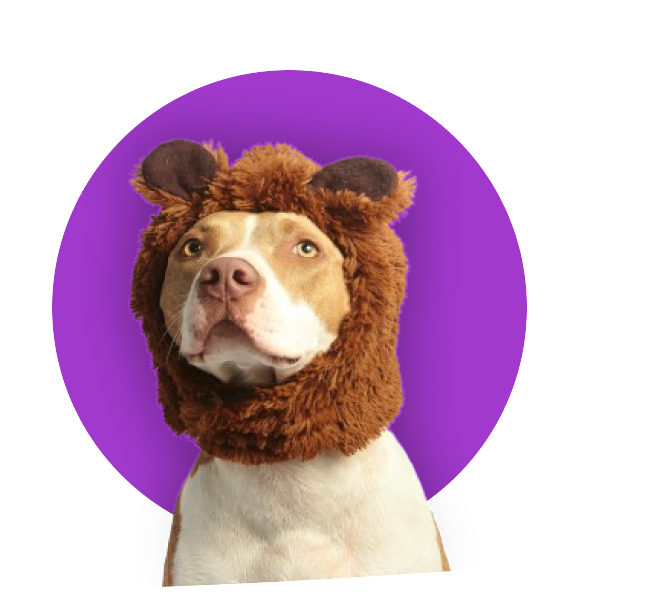
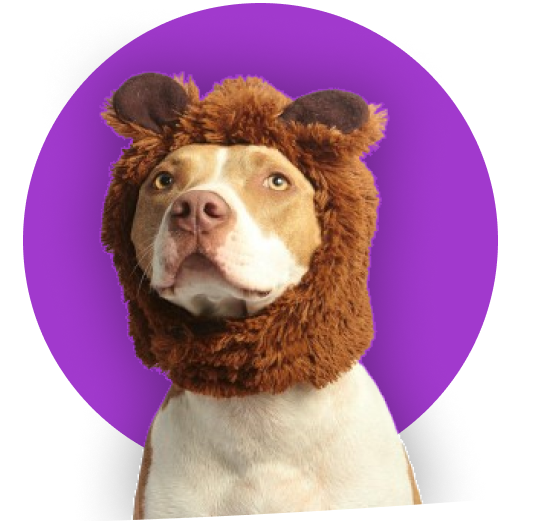
responsive de los slides del carrusel

diff --git a/front/src/components/UI/Carousel/Carousel.tsx b/front/src/components/UI/Carousel/Carousel.tsx
@@ -4,100 +4,97 @@ import { Autoplay } from "swiper/modules";
 // Import Swiper styles
 import "swiper/css";
 import "swiper/css/autoplay";
-//import "swiper/modules/autoplay.scss";
-//import "./styles.css";
+
+interface CarouselData {
+  title: string;
+  description: string;
+  textbutton: string;
+  image: { url: string; alt: string };
+}
+
+const listCarouselData: CarouselData[] = [
+  {
+    title: " ¡ Adopta !",
+    description: `Cuando decides adoptar, estás haciendo una diferencia doblemente
+                significativa. No solo le das una nueva vida llena de amor y
+                cuidados al animal que llevas a tu hogar, sino que también abres
+                un espacio para que otro animal en situación de calle pueda
+                encontrar refugio en nuestro Centro de Adopción. Tu adopción
+                salva a dos vidas: la del animal que acoges y la del que podrá
+                ocupar su lugar en nuestro refugio. Únete a este ciclo de
+                esperanza y salvación.`,
+    textbutton: "Ver refugios",
+    image: {
+      url: "/images/background-hero-carousel-slide-1-recortado.png",
+      alt: "hero-slide-1",
+    },
+  },
+  {
+    title: " ¡ Adopta !",
+    description: `Cuando decides adoptar, estás haciendo una diferencia doblemente
+                significativa. No solo le das una nueva vida llena de amor y
+                cuidados al animal que llevas a tu hogar, sino que también abres
+                un espacio para que otro animal en situación de calle pueda
+                encontrar refugio en nuestro Centro de Adopción. Tu adopción
+                salva a dos vidas: la del animal que acoges y la del que podrá
+                ocupar su lugar en nuestro refugio. Únete a este ciclo de
+                esperanza y salvación.`,
+    textbutton: "Ver refugios",
+    image: {
+      url: "/images/background-hero-carousel-slide-1-recortado.png",
+      alt: "hero-slide-1",
+    },
+  },
+  {
+    title: " ¡ Adopta !",
+    description: `Cuando decides adoptar, estás haciendo una diferencia doblemente
+                significativa. No solo le das una nueva vida llena de amor y
+                cuidados al animal que llevas a tu hogar, sino que también abres
+                un espacio para que otro animal en situación de calle pueda
+                encontrar refugio en nuestro Centro de Adopción. Tu adopción
+                salva a dos vidas: la del animal que acoges y la del que podrá
+                ocupar su lugar en nuestro refugio. Únete a este ciclo de
+                esperanza y salvación.`,
+    textbutton: "Ver refugios",
+    image: {
+      url: "/images/background-hero-carousel-slide-1-recortado.png",
+      alt: "hero-slide-1",
+    },
+  },
+];
 
 export default function Carousel() {
   return (
-    <div className="h-[595px] w-full">
-      <Swiper className="h-full" modules={[Autoplay]} autoplay={{delay: 3000}}>
-        <SwiperSlide className="">
-          <article className="flex items-center justify-around gap-5 w-full h-full bg-[url('/images/background-hero-carousel.png')] bg-bottom bg-no-repeat bg-cover overflow-hidden">
-            <div className="max-w-[584px] w-full fled flex-col">
-              <h1 className="text-6xl font-semibold text-primary pb-5">
-                ¡ Adopta !
-              </h1>
-              <p className=" text-white pb-5 text-lg font-normal">
-                Cuando decides adoptar, estás haciendo una diferencia doblemente
-                significativa. No solo le das una nueva vida llena de amor y
-                cuidados al animal que llevas a tu hogar, sino que también abres
-                un espacio para que otro animal en situación de calle pueda
-                encontrar refugio en nuestro Centro de Adopción. Tu adopción
-                salva a dos vidas: la del animal que acoges y la del que podrá
-                ocupar su lugar en nuestro refugio. Únete a este ciclo de
-                esperanza y salvación.
-              </p>
-              <button className="bg-primary py-3 px-4 rounded-full font-medium text-lg text-white">
-                Ver refugios
-              </button>
-            </div>
-            <div className="max-w-[660px] w-full h-fit abolute top-0 left-0">
-              <img
-                src="/images/background-hero-carousel-slide-1-recortado.png"
-                className="w-full h-full"
-                alt="hero-slide-1"
-              />
-            </div>
-          </article>
-        </SwiperSlide>
-        <SwiperSlide>
-          <article className="flex items-center justify-around w-full h-full bg-[url('/images/background-hero-carousel.png')] bg-bottom bg-no-repeat bg-cover overflow-hidden">
-            <div className="max-w-[584px] w-full fled flex-col">
-              <h1 className="text-6xl font-semibold text-primary pb-5">
-                ¡ Adopta !
-              </h1>
-              <p className=" text-white pb-5 text-xl font-normal">
-                Cuando decides adoptar, estás haciendo una diferencia doblemente
-                significativa. No solo le das una nueva vida llena de amor y
-                cuidados al animal que llevas a tu hogar, sino que también abres
-                un espacio para que otro animal en situación de calle pueda
-                encontrar refugio en nuestro Centro de Adopción. Tu adopción
-                salva a dos vidas: la del animal que acoges y la del que podrá
-                ocupar su lugar en nuestro refugio. Únete a este ciclo de
-                esperanza y salvación.
-              </p>
-              <button className="bg-primary py-3 px-4 rounded-full font-medium text-lg text-white">
-                Ver refugios
-              </button>
-            </div>
-            <div className="max-w-[660px] w-full h-fit abolute top-0 left-0">
-              <img
-                src="/images/background-hero-carousel-slide-1-recortado.png"
-                className="w-full h-full"
-                alt="hero-slide-1"
-              />
-            </div>
-          </article>
-        </SwiperSlide>
-        <SwiperSlide>
-          <article className="flex items-center justify-around w-full h-full bg-[url('/images/background-hero-carousel.png')] bg-bottom bg-no-repeat bg-cover overflow-hidden">
-            <div className="max-w-[584px] w-full fled flex-col">
-              <h1 className="text-6xl font-semibold text-primary pb-5">
-                ¡ Adopta !
-              </h1>
-              <p className=" text-white pb-5 text-xl font-normal">
-                Cuando decides adoptar, estás haciendo una diferencia doblemente
-                significativa. No solo le das una nueva vida llena de amor y
-                cuidados al animal que llevas a tu hogar, sino que también abres
-                un espacio para que otro animal en situación de calle pueda
-                encontrar refugio en nuestro Centro de Adopción. Tu adopción
-                salva a dos vidas: la del animal que acoges y la del que podrá
-                ocupar su lugar en nuestro refugio. Únete a este ciclo de
-                esperanza y salvación.
-              </p>
-              <button className="bg-primary py-3 px-4 rounded-full font-medium text-lg text-white">
-                Ver refugios
-              </button>
-            </div>
-            <div className="max-w-[660px] w-full h-fit abolute top-0 left-0">
-              <img
-                src="/images/background-hero-carousel-slide-1-recortado.png"
-                className="w-full h-full"
-                alt="hero-slide-1"
-              />
-            </div>
-          </article>
-        </SwiperSlide>
+    <div className=" h-fit w-full">
+      <Swiper
+        className="h-full"
+        modules={[Autoplay]}
+        autoplay={{ delay: 3000 }}
+      >
+        {listCarouselData.map((item, index) => (
+          <SwiperSlide key={index} className="">
+            <article className="flex items-center justify-around gap-x-4 w-full h-full bg-[url('/images/background-hero-carousel.png')] bg-bottom bg-no-repeat bg-cover pt-24 pb-2">
+              <div className="max-w-[584px] w-full fled flex-col border">
+                <h1 className="text-6xl font-semibold text-primary pb-5">
+                  {item.title}
+                </h1>
+                <p className=" text-white pb-5 text-xl font-normal">
+                  {item.description}
+                </p>
+                <button className="bg-primary py-3 px-4 rounded-full font-medium text-lg text-white">
+                  {item.textbutton}
+                </button>
+              </div>
+              <div className="max-w-[530px] w-full h-fit">
+                <img
+                  src={item.image.url}
+                  className="w-full h-full bg-cover"
+                  alt={item.image.alt}
+                />
+              </div>
+            </article>
+          </SwiperSlide>
+        ))}
       </Swiper>
     </div>
   );

diff --git a/front/src/app/(page)/report/page.tsx b/front/src/app/(page)/report/page.tsx
@@ -112,7 +112,7 @@ const ReportPage: React.FC = () => {
             location={report.location}
             animalType={report.animalType}
             imageUrl={report.imageUrl}
-            images={""}
+            /*  images={""} */
             species={""}
             sex={""}
           />
